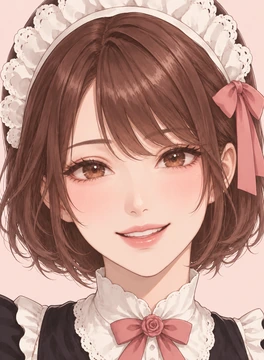
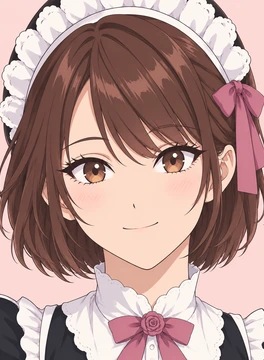
Refine MOE anime artwork and background heart motion

diff --git a/src/components/useDecorativeMotion.test.tsx b/src/components/useDecorativeMotion.test.tsx
@@ -1,0 +1,40 @@
+import { StrictMode, act } from 'react';
+import { createRoot, type Root } from 'react-dom/client';
+import { afterEach, beforeEach, expect, it, vi } from 'vitest';
+import { useDecorativeMotion } from './useDecorativeMotion';
+
+let host: HTMLDivElement;
+let root: Root;
+let visibility: DocumentVisibilityState;
+function Probe() { useDecorativeMotion(); return <button>操作</button>; }
+beforeEach(() => {
+  visibility = 'visible';
+  vi.stubGlobal('IS_REACT_ACT_ENVIRONMENT', true);
+  vi.spyOn(document, 'visibilityState', 'get').mockImplementation(() => visibility);
+  host = document.createElement('div'); document.body.append(host); root = createRoot(host);
+});
+afterEach(async () => { await act(async () => root.unmount()); host.remove(); vi.restoreAllMocks(); vi.unstubAllGlobals(); });
+const paused = () => document.documentElement.hasAttribute('data-motion-paused');
+async function change(next: DocumentVisibilityState) {
+  await act(async () => { visibility = next; document.dispatchEvent(new Event('visibilitychange')); });
+}
+it('pauses on hidden and resumes on visible without replacing a focused control', async () => {
+  await act(async () => root.render(<Probe />));
+  const button = host.querySelector('button')!; button.focus();
+  expect(paused()).toBe(false);
+  await change('hidden'); expect(paused()).toBe(true); expect(document.activeElement).toBe(button);
+  await change('visible'); expect(paused()).toBe(false); expect(document.activeElement).toBe(button);
+});
+it('starts paused in a hidden document and keeps listening through StrictMode remounts', async () => {
+  visibility = 'hidden';
+  await act(async () => root.render(<StrictMode><Probe /></StrictMode>));
+  expect(paused()).toBe(true);
+  await change('visible'); expect(paused()).toBe(false);
+  await change('hidden'); expect(paused()).toBe(true);
+});
+it('removes the listener and root marker after unmount', async () => {
+  await act(async () => root.render(<Probe />));
+  await change('hidden'); expect(paused()).toBe(true);
+  await act(async () => root.render(null)); expect(paused()).toBe(false);
+  await change('visible'); await change('hidden'); expect(paused()).toBe(false);
+});

diff --git a/src/app/moe.css b/src/app/moe.css
@@ -66,6 +66,10 @@ html[data-theme='moe'] {
     url('/themes/moe/background.webp') center / cover no-repeat,
     var(--bg0);
   background-attachment: fixed;
+  /* The 3:2 artwork has a small overscan margin. Percentages here use the fixed
+     background's positioning viewport, including mobile browser-chrome changes. */
+  background-size: auto, auto max(calc(100% + 60px), 66.667vw);
+  background-position: center, center calc(50% + 30px);
 }
 
 /* Two fixed, non-interactive planes sit behind the app. Empty generated content
@@ -81,12 +85,14 @@ html[data-theme='moe'] body::after {
   background-repeat: no-repeat;
 }
 html[data-theme='moe'] body::before {
+  --moe-drift-distance: -36px;
   background-image: var(--moe-heart), var(--moe-heart), var(--moe-heart), var(--moe-heart), var(--moe-heart), var(--moe-heart);
   background-size: 28px 26px, 19px 18px, 24px 22px, 18px 17px, 25px 23px, 20px 19px;
   background-position: 3% 12%, 97% 24%, 1% 47%, 99% 61%, 4% 84%, 96% 94%;
   animation: moe-heart-drift 9s ease-in-out infinite;
 }
 html[data-theme='moe'] body::after {
+  --moe-drift-distance: -30px;
   background-image: var(--moe-sparkle), var(--moe-heart), var(--moe-sparkle), var(--moe-sparkle), var(--moe-heart), var(--moe-sparkle);
   background-size: 15px 15px, 15px 14px, 18px 18px, 13px 13px, 17px 16px, 16px 16px;
   background-position: 95% 7%, 0% 31%, 98% 44%, 2% 69%, 100% 77%, 7% 96%;
@@ -286,7 +292,7 @@ html[data-theme='moe'] .page--records {
 
 @keyframes moe-heart-drift {
   0%, 100% { transform: translateY(0); }
-  50% { transform: translateY(-12px); }
+  50% { transform: translateY(var(--moe-drift-distance)); }
 }
 @keyframes moe-charm-sway {
   0%, 100% { transform: translateY(0) rotate(-7deg); }
@@ -308,4 +314,11 @@ html[data-theme='moe'] .page--records {
     animation: none !important;
     transition: none !important;
   }
+}
+
+/* Keep every MOE decorative timeline still while the document is hidden. */
+html[data-theme='moe'][data-motion-paused] *,
+html[data-theme='moe'][data-motion-paused] *::before,
+html[data-theme='moe'][data-motion-paused] *::after {
+  animation-play-state: paused !important;
 }

diff --git a/src/app/App.tsx b/src/app/App.tsx
@@ -3,6 +3,7 @@ import { createHashRouter, Navigate, Route, RouterProvider, Routes, useLocation,
 import { AppProvider, useApp } from './store';
 import { RouteScroll } from '@/components/RouteScroll';
 import { BottomNav } from '@/components/BottomNav';
+import { useDecorativeMotion } from '@/components/useDecorativeMotion';
 import { LibraryPage } from '@/features/library/LibraryPage';
 import { EditorPage } from '@/features/editor/EditorPage';
 import { DetailPage } from '@/features/detail/DetailPage';
@@ -119,6 +120,7 @@ export function createAppRouter() {
 }
 
 export default function App({ router }: { router: RouterProviderProps['router'] }) {
+  useDecorativeMotion();
   return (
     <AppProvider>
       <div className="app-shell">

diff --git a/src/components/useDecorativeMotion.ts b/src/components/useDecorativeMotion.ts
@@ -1,0 +1,15 @@
+import { useEffect } from 'react';
+
+/** Pause decorative CSS timelines while the page is not being shown. */
+export function useDecorativeMotion() {
+  useEffect(() => {
+    const root = document.documentElement;
+    const sync = () => root.toggleAttribute('data-motion-paused', document.visibilityState !== 'visible');
+    sync();
+    document.addEventListener('visibilitychange', sync);
+    return () => {
+      document.removeEventListener('visibilitychange', sync);
+      root.removeAttribute('data-motion-paused');
+    };
+  }, []);
+}

diff --git a/public/sw.js b/public/sw.js
@@ -1,4 +1,4 @@
-const CACHE = 'mahjong-study-v47';
+const CACHE = 'mahjong-study-v48';
 
 self.addEventListener('install', (event) => {
   event.waitUntil(

diff --git a/README.md b/README.md
@@ -124,4 +124,4 @@ npm run build
 
 ## テーマ
 
-設定からノーマル・クール・キュート・DOPA・MOEを選べます。クールとキュートはそれぞれ専用の生成画像を全体と学習帳カードの背景に使います。DOPAは虹色の枠と光がゆっくり流れるテーマです。端末の「動きを減らす」設定では虹色を静止表示にします。MOEはハートとリボンの生成背景を使い、装飾だけがゆっくり動きます。動きを減らす設定では静止します。テーマはこのブラウザだけに保存され、問題や学習履歴は変わりません。
+設定からノーマル・クール・キュート・DOPA・MOEを選べます。クールとキュートはそれぞれ専用の生成画像を全体と学習帳カードの背景に使います。DOPAは虹色の枠と光がゆっくり流れるテーマです。端末の「動きを減らす」設定では虹色を静止表示にします。MOEはアニメ調のメイドとハート・リボンの生成背景を使い、未公開のドラ裏5枚にそれぞれ異なる顔を表示します。背景のハートは2層だけがゆっくり上下し、文字・牌・操作部分は動きません。動きを減らす設定では静止し、ページが非表示の間は装飾アニメーションを一時停止します。テーマはこのブラウザだけに保存され、問題や学習履歴は変わりません。
